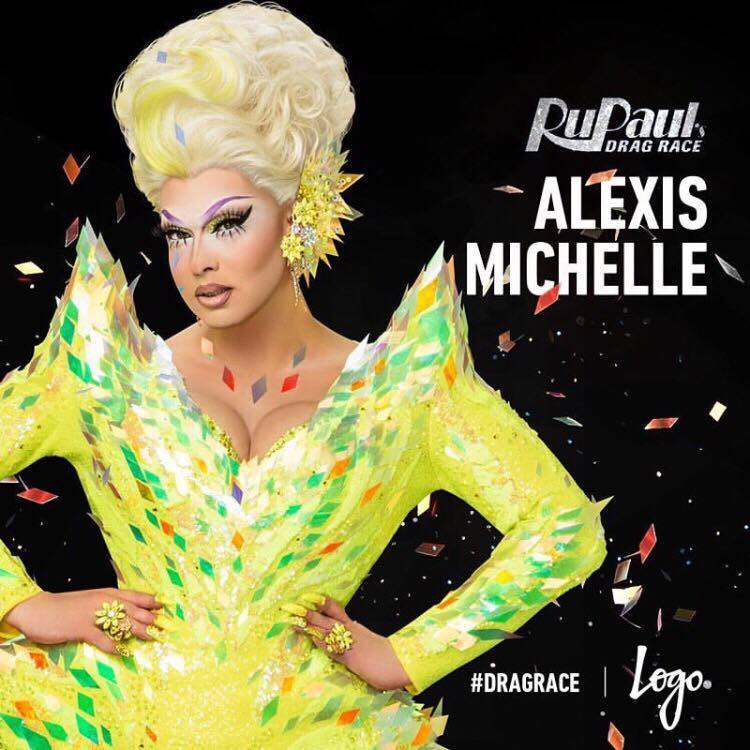
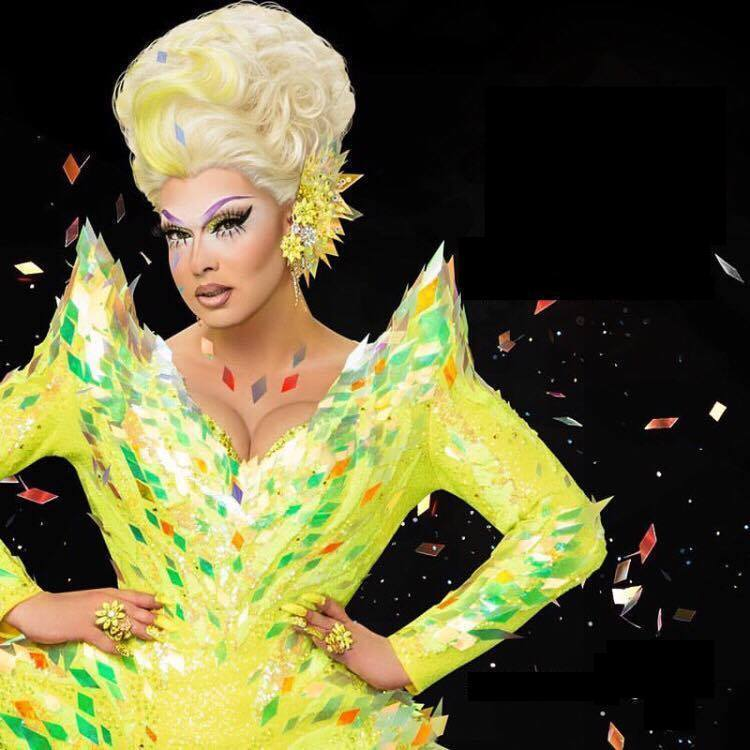
update images to coenside with backdrop

Changed region(s): [[0.6133, 0.1227, 0.9507, 0.3987], [0.7973, 0.8587, 0.9507, 0.9813], [0.6133, 0.8893, 0.7667, 0.92]]

diff --git a/open-items.md b/open-items.md
@@ -29,6 +29,7 @@ Minor updates
 [ ] move heroku address to actual domain
 [ ] add name after logged in
 [ ] reformat the background to be better!
+[ ] update photos to remove backmarks
 [ ] add buttions for scroll of queens
 [ ] navbar not staying at top
 [ ] error when autopopulate starts, still getting errors but wont time out
@@ -45,6 +46,7 @@ Minor updates
 [ ] advanced form validation
 [ ] have profile of who you picked and how they did
 [ ] update for toot and boot additional points
+[ ] display video of toot and boot
 [ ] pick top three when signup
 [ ] change top three after first three episodes
 [ ] user profiles
